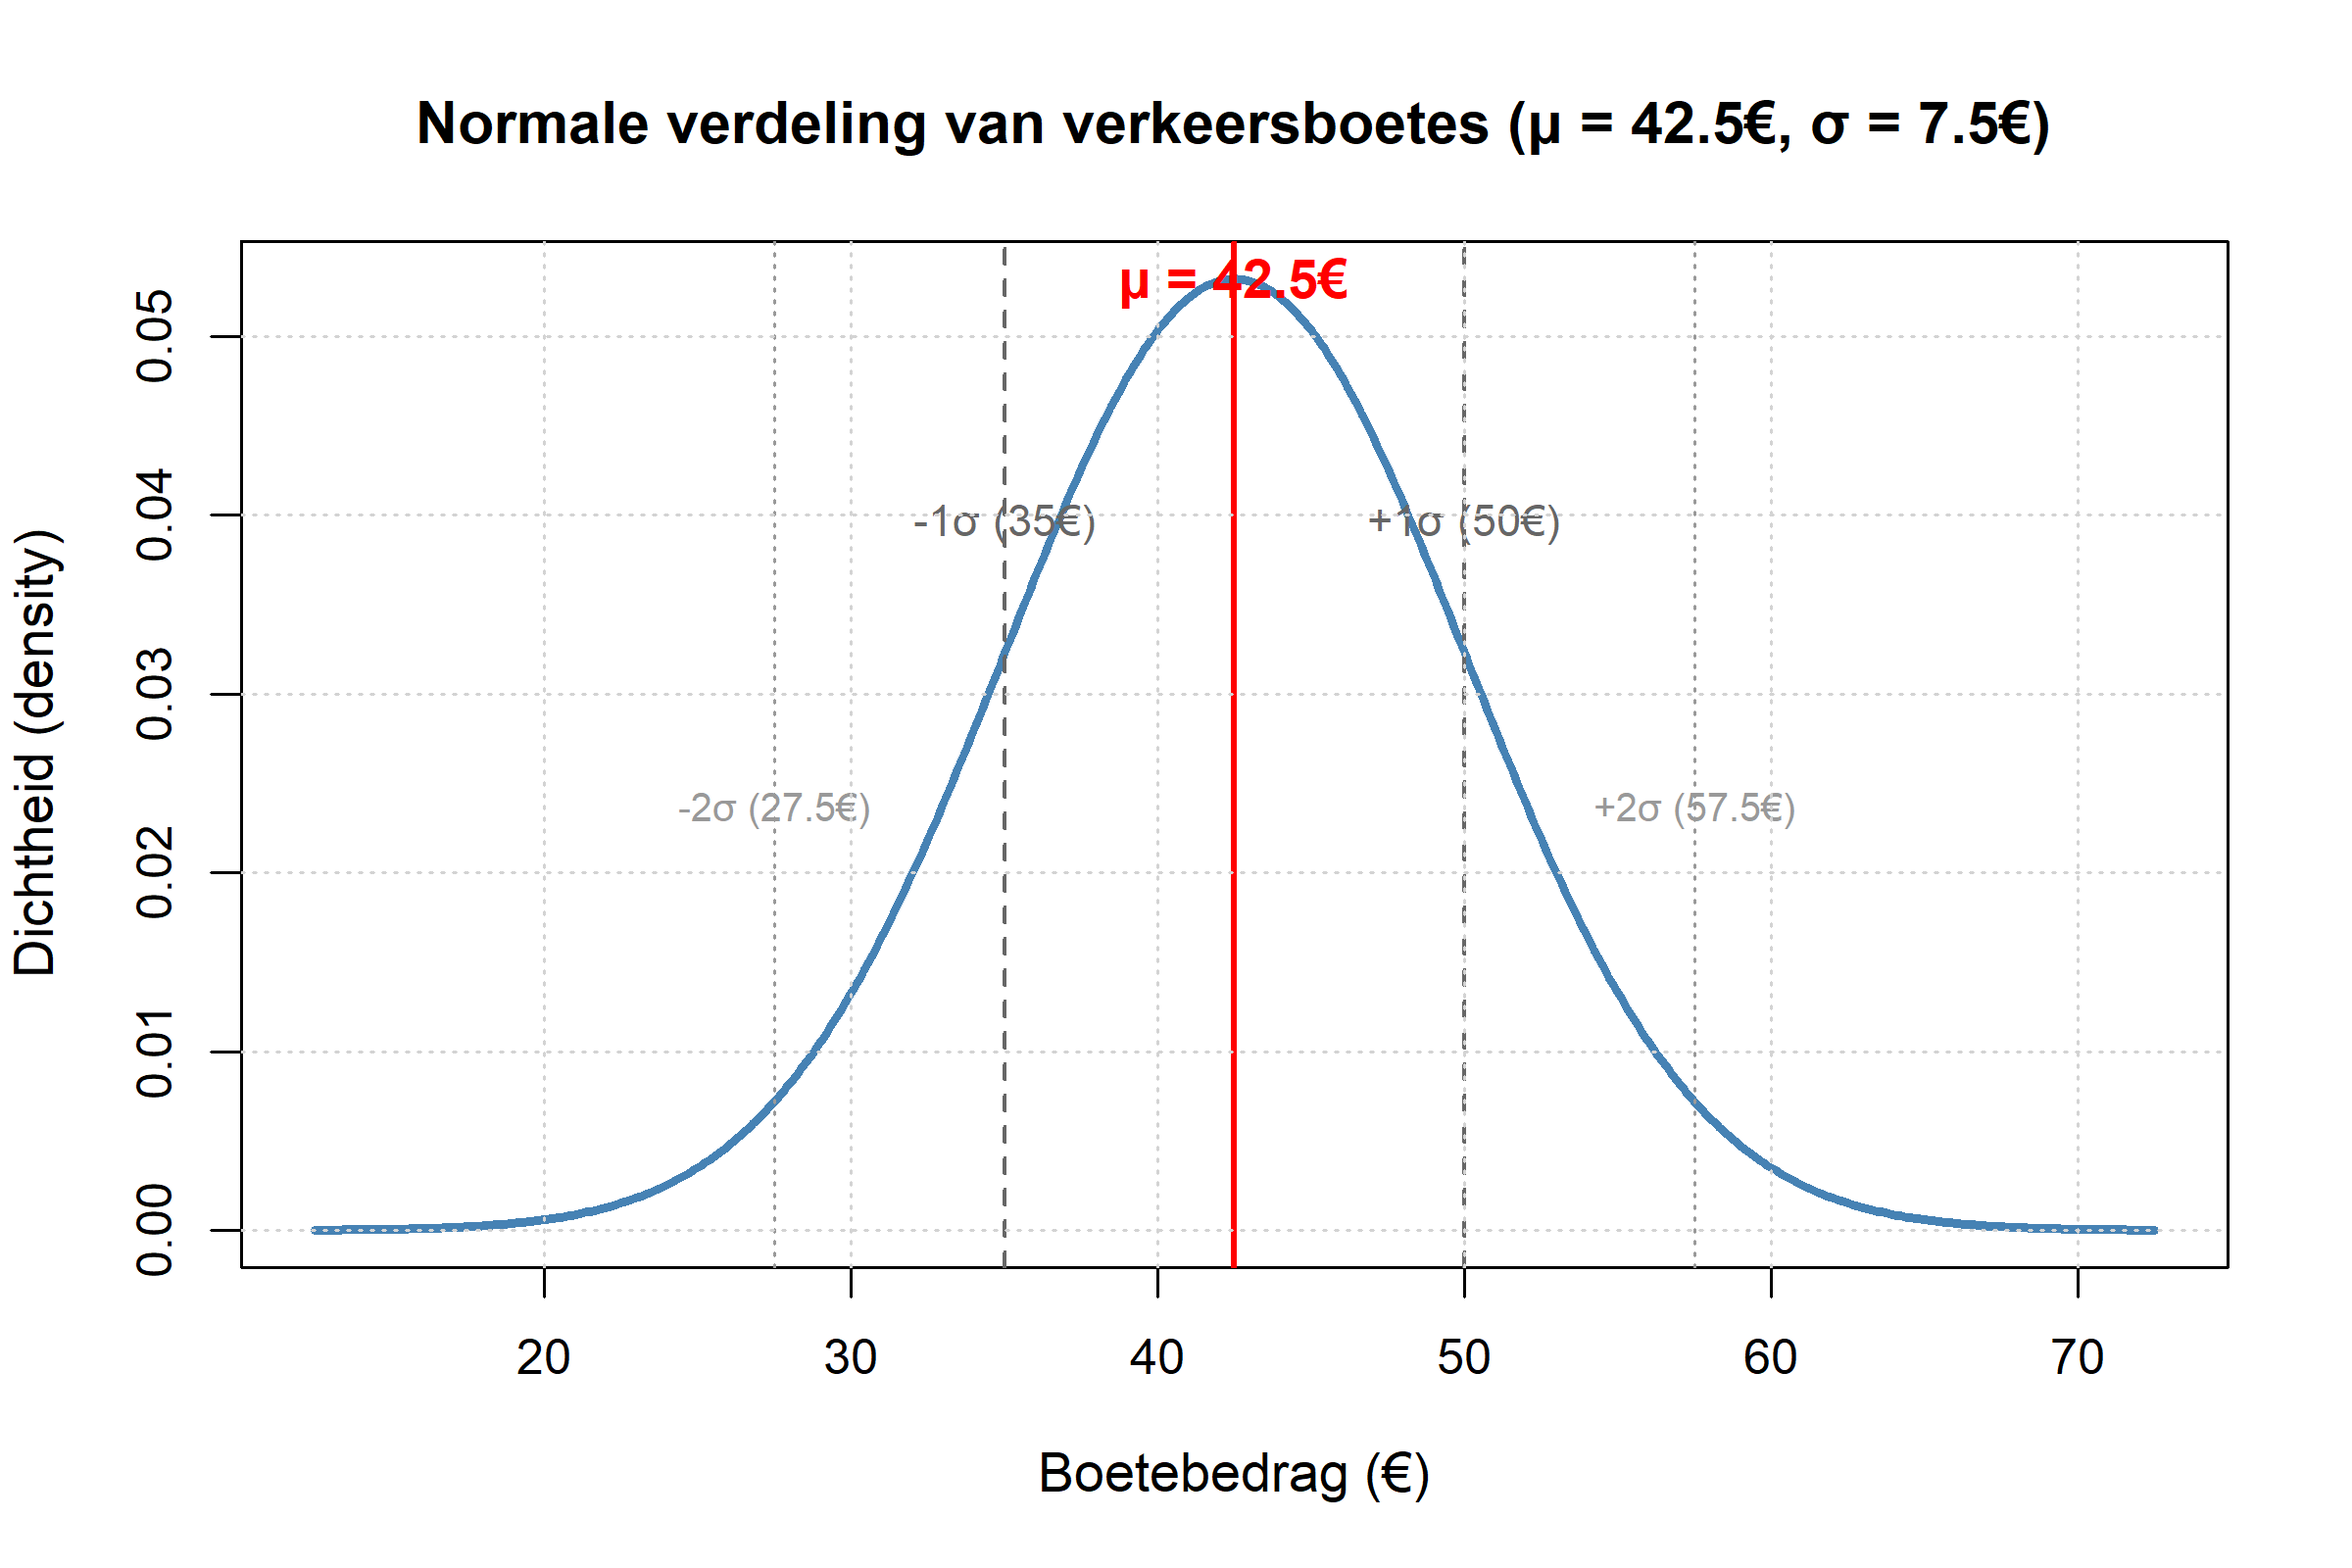
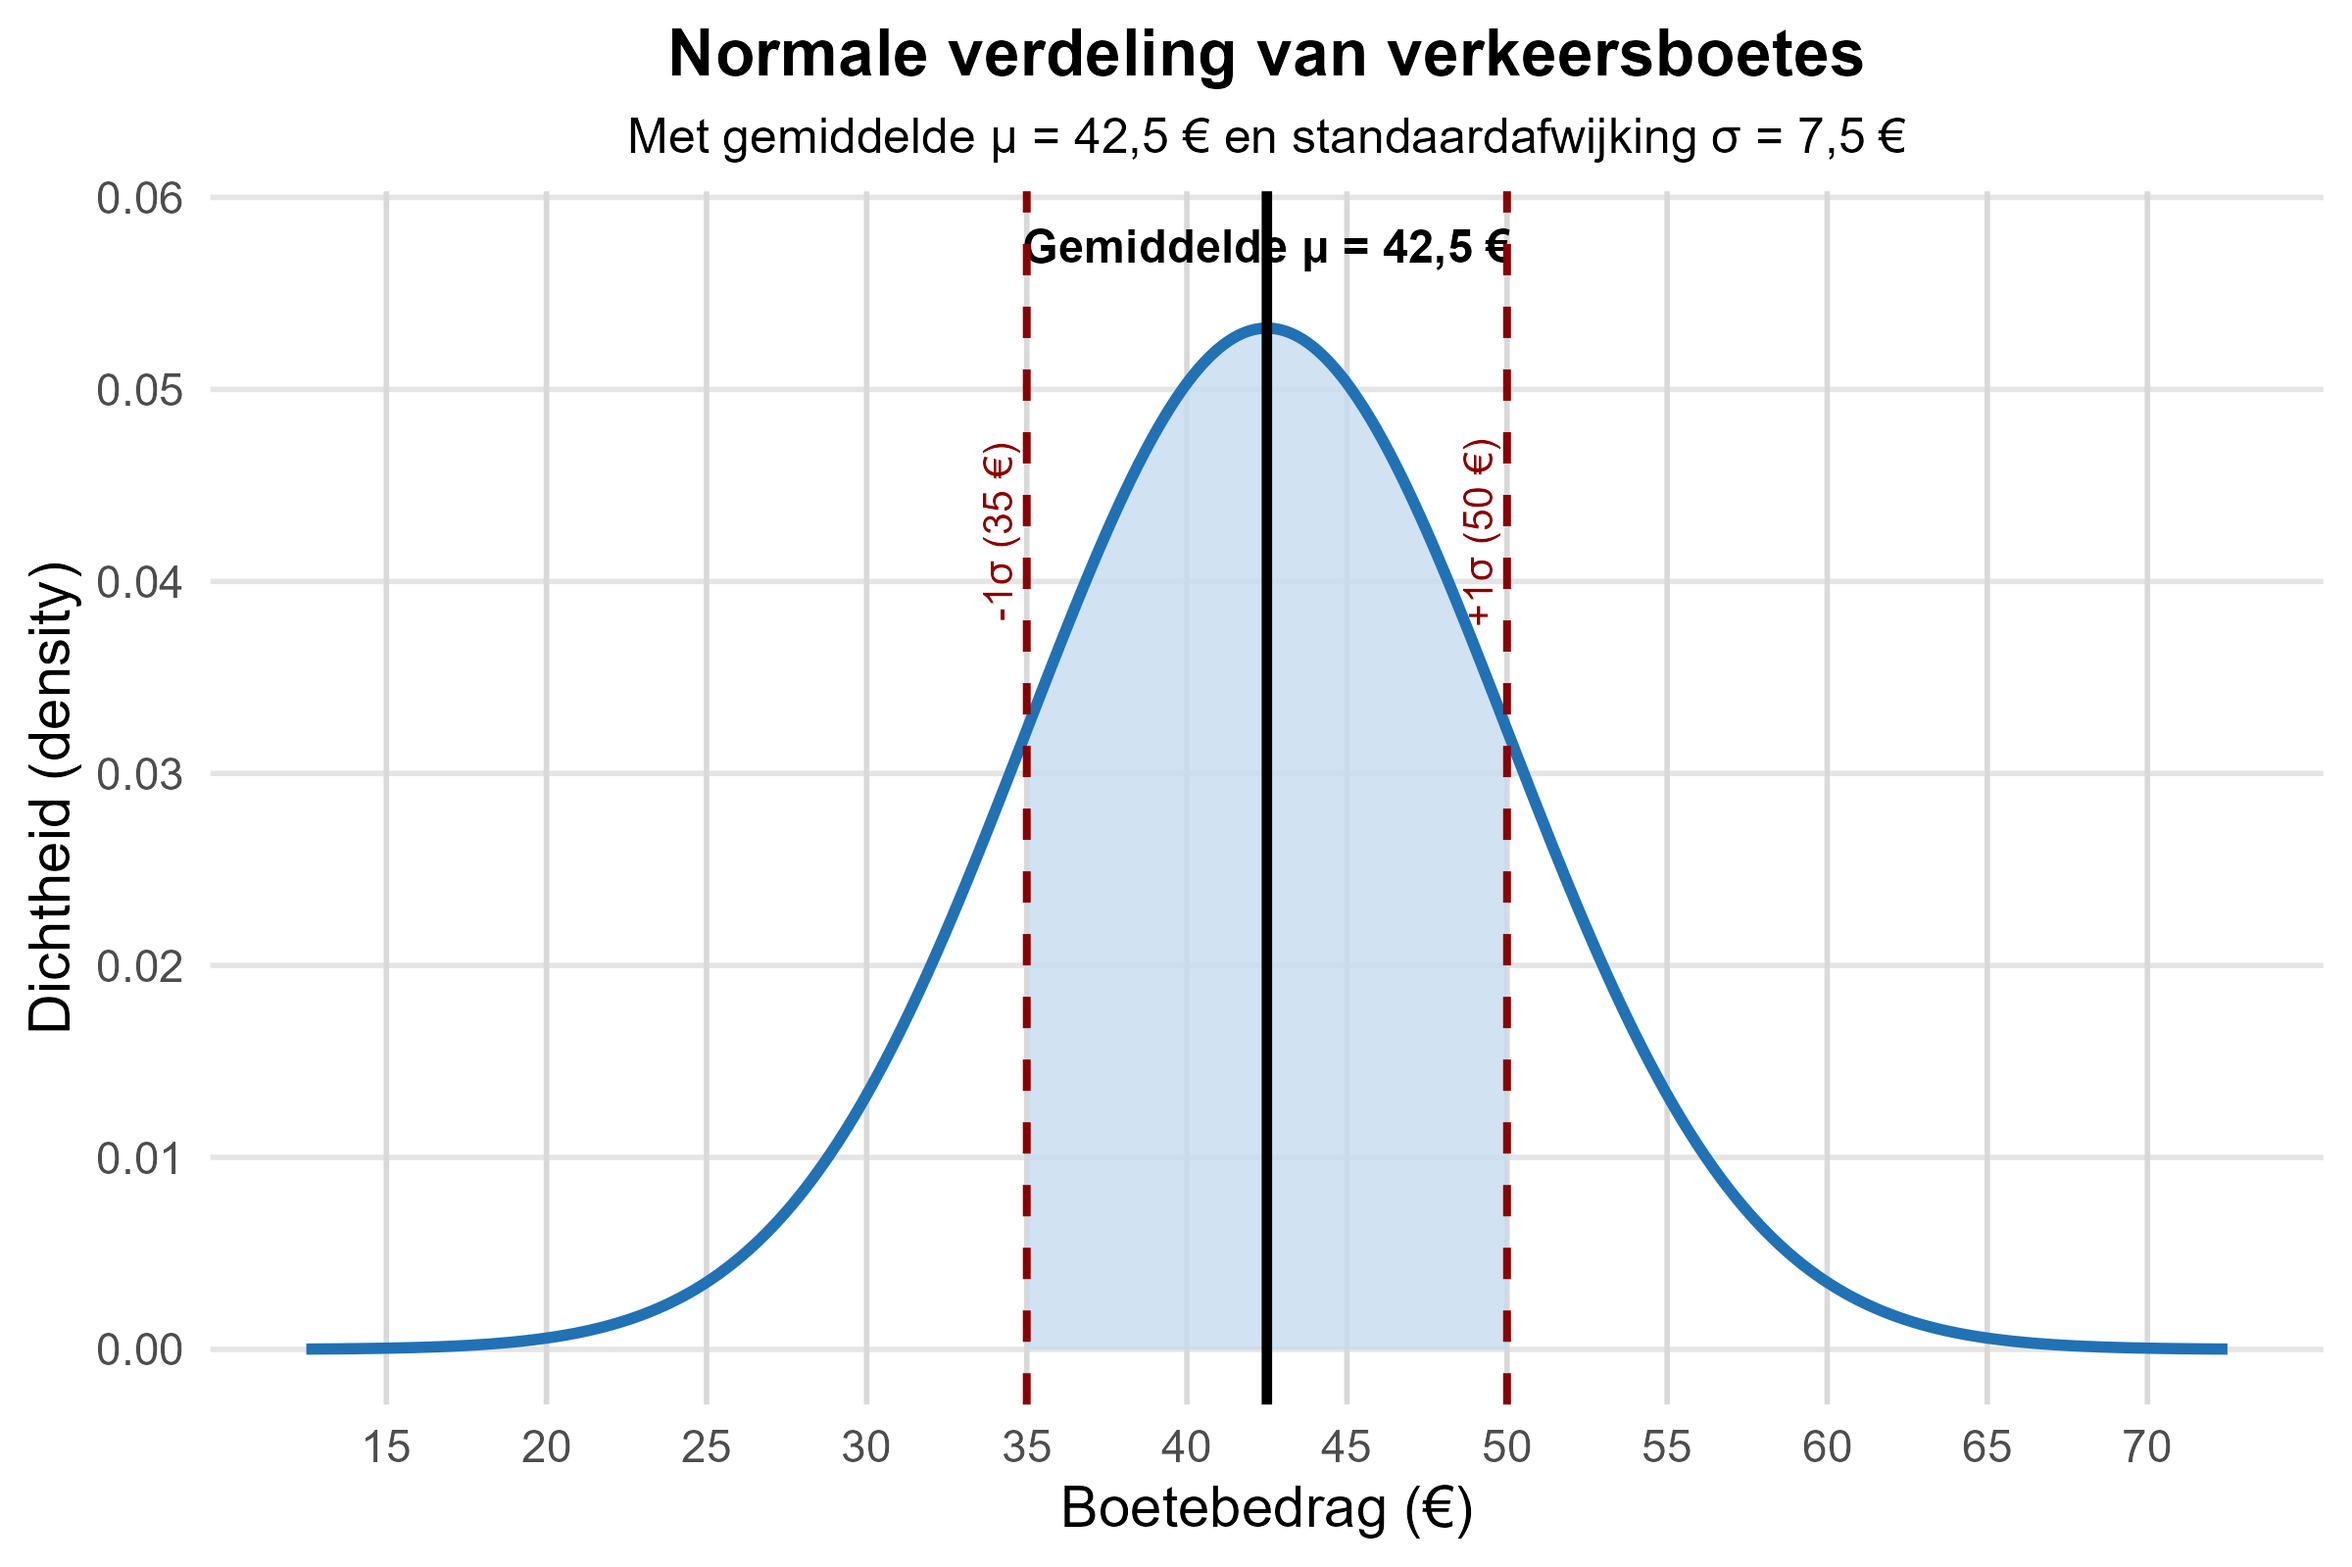
Add visualization and update plot generation for Exercise 5.1

diff --git a/Hoofdstuk_5_De standaardnormale verdeling en diens eigenschappen/Oef - 5.1/description/description.nl.md b/Hoofdstuk_5_De standaardnormale verdeling en diens eigenschappen/Oef - 5.1/description/description.nl.md
@@ -7,6 +7,11 @@ Een criminoloog onderzoekt de verdeling van verkeersboetes die door de politie w
 - **Standaardafwijking (σ):** 7,5€
 - **Verdeling:** Normale verdeling
 
+## Visualisatie van de Normale Verdeling
+
+<img src="media/normal_distribution_plot.png" width="600" alt="Normale verdeling van verkeersboetes">
+
+
 De onderzoeker wil nu specifieke kansen berekenen om beter te begrijpen hoe verkeersboetes verdeeld zijn en wat de waarschijnlijkheid is dat een willekeurige overtreder een boete binnen bepaalde bedragscategorieën krijgt.
 
 **Formules**
